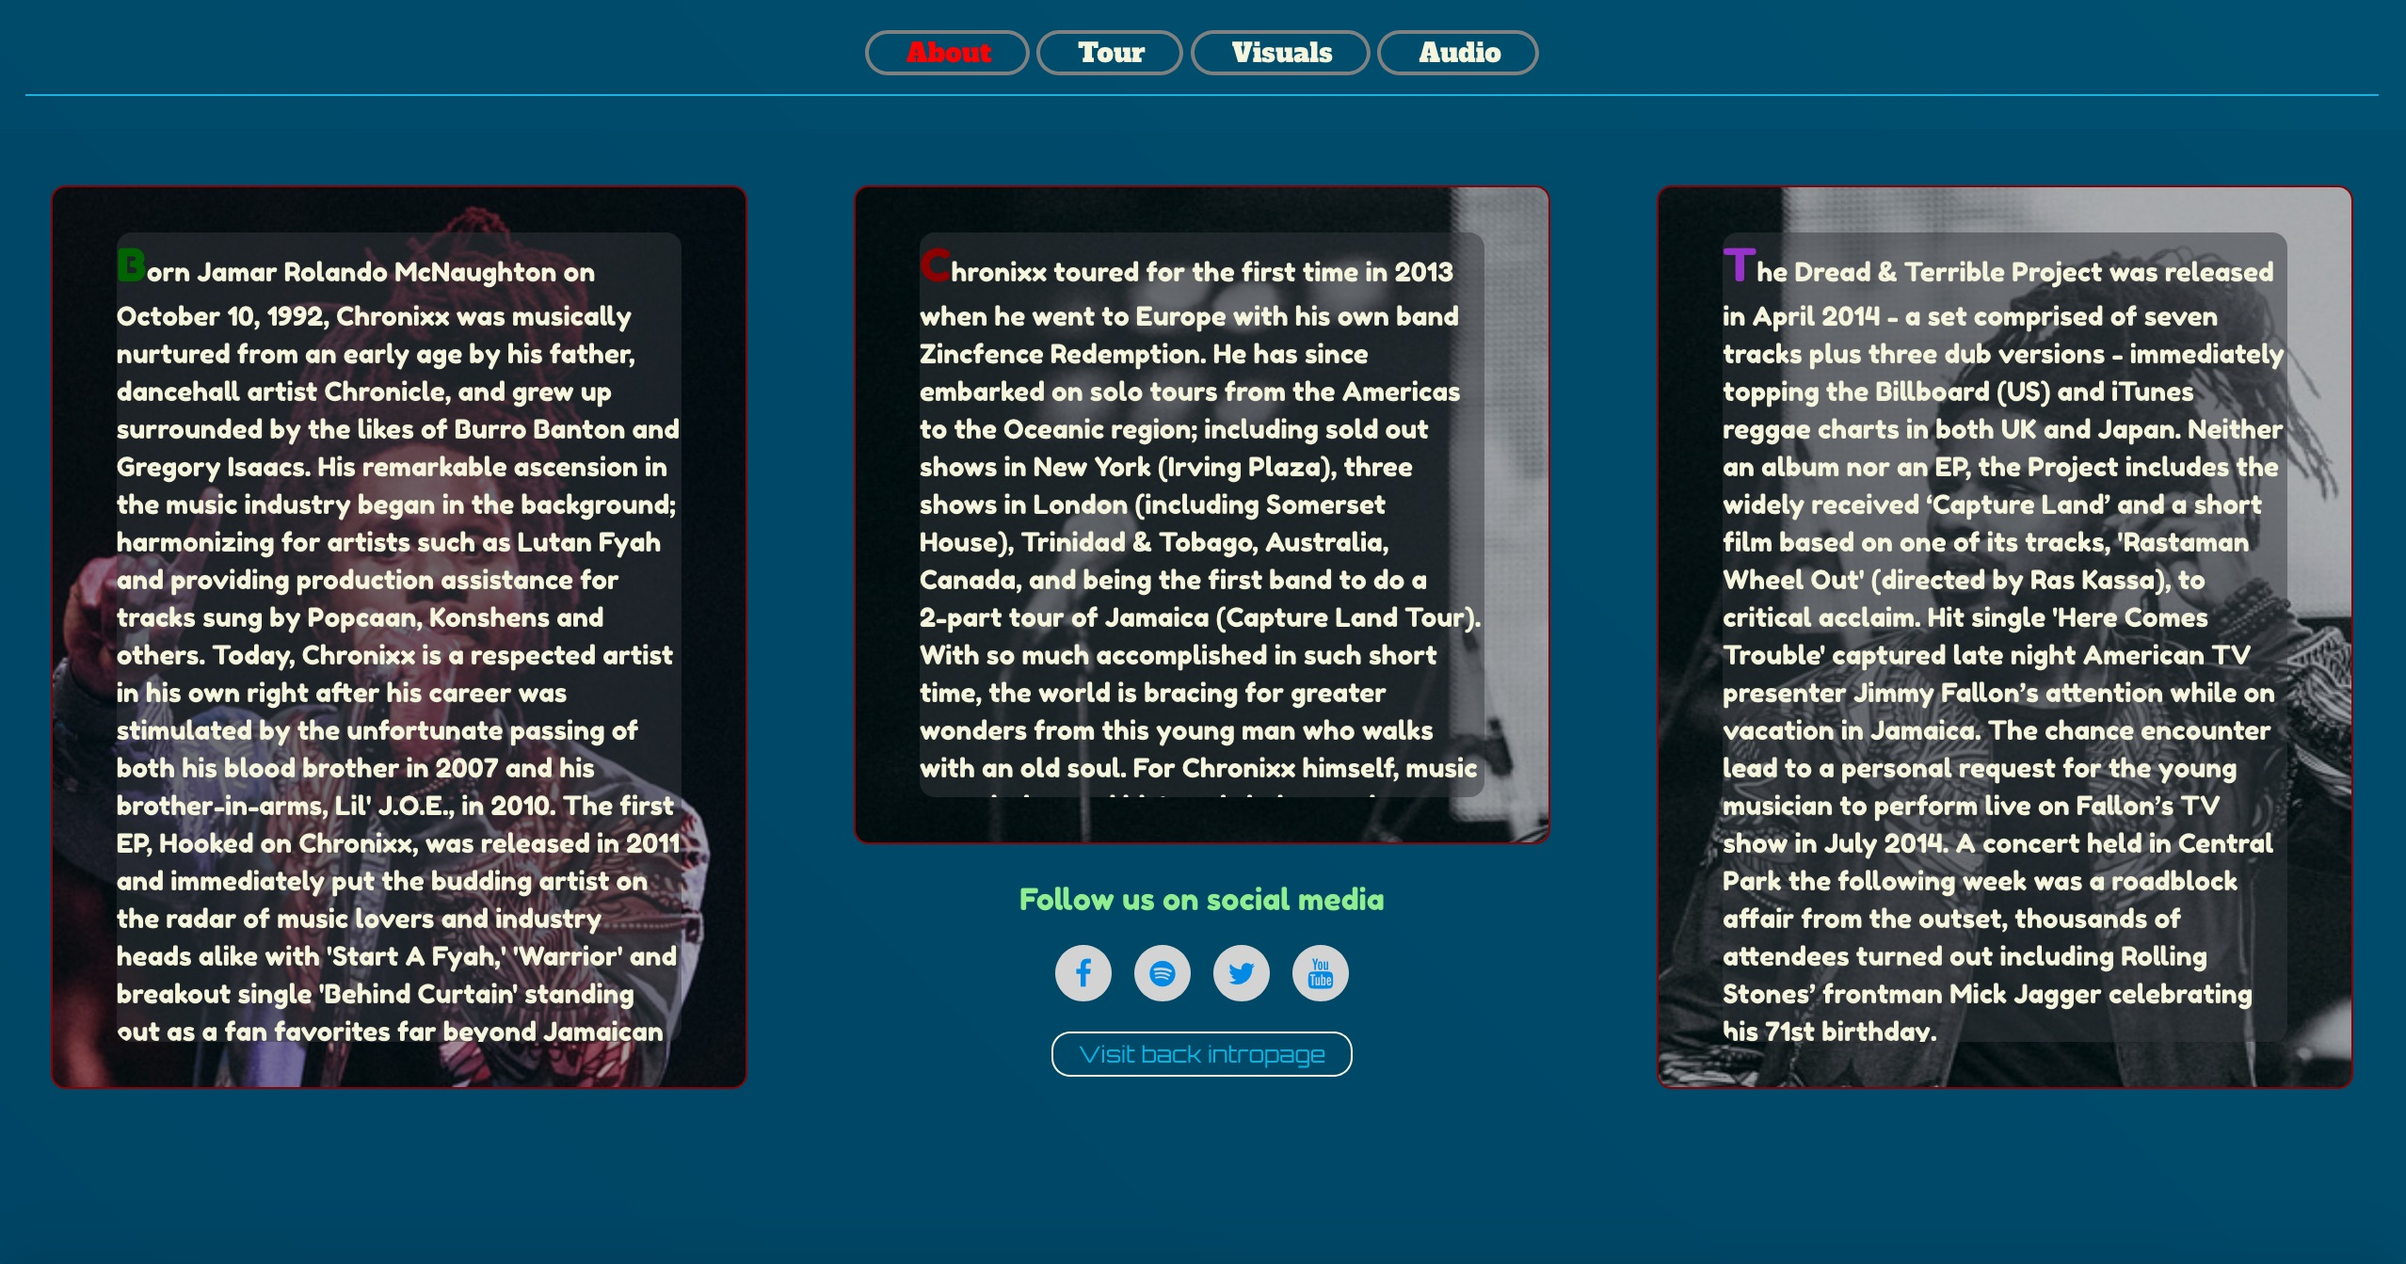
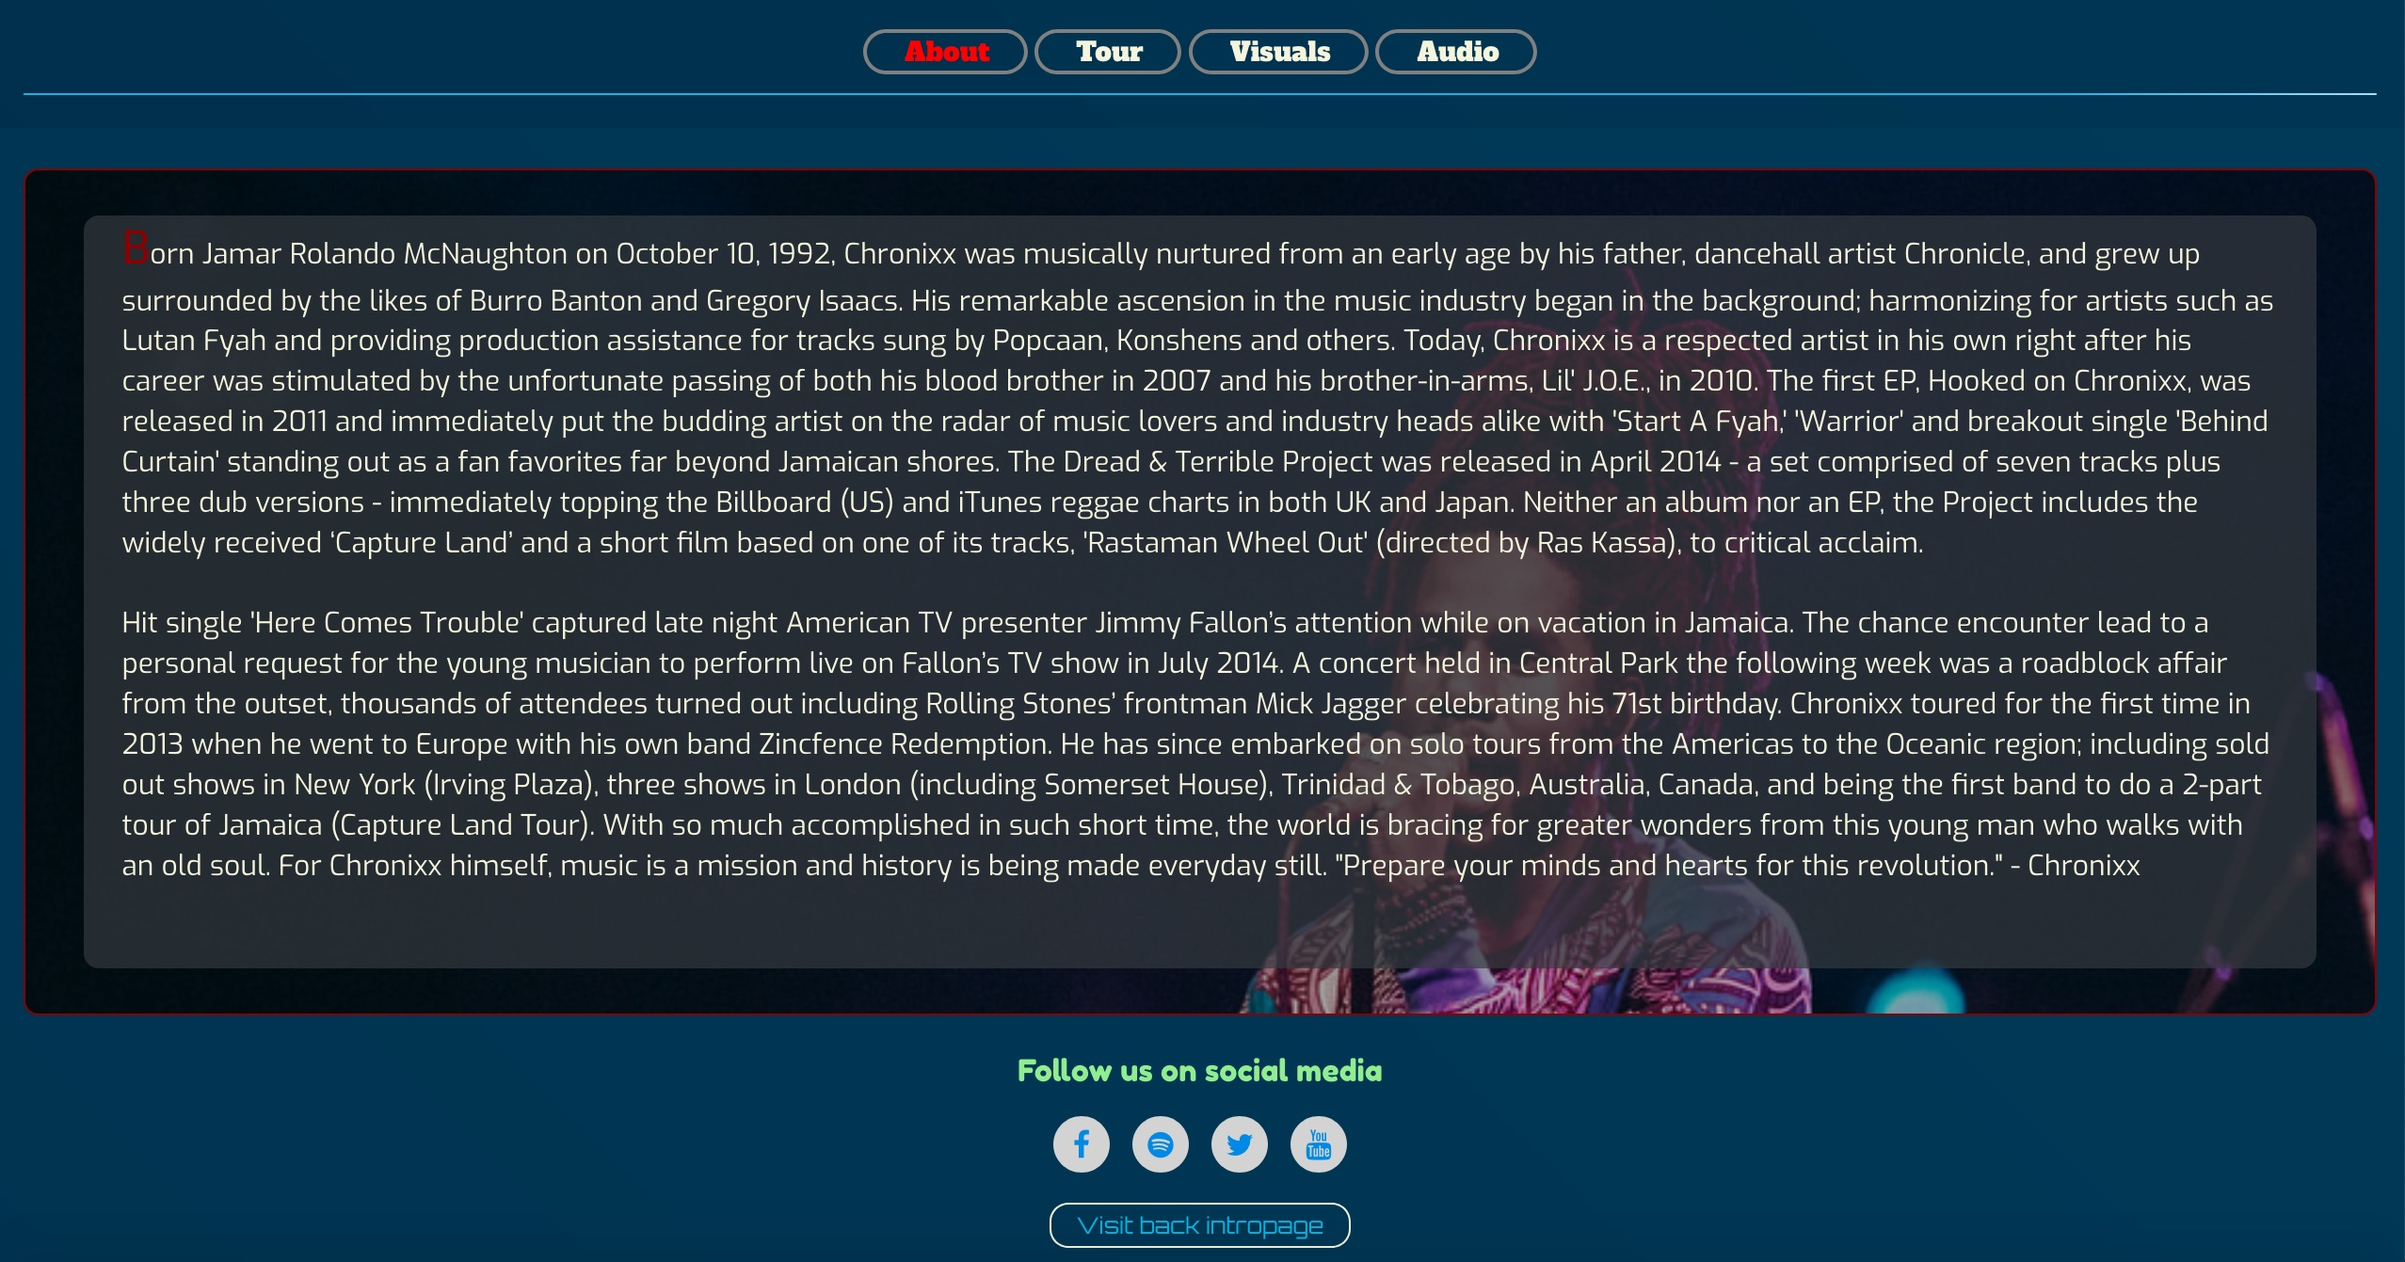
changed about page to one big column and made new screenshot

diff --git a/about.html b/about.html
@@ -32,26 +32,23 @@
     </header>
 
     <section class="container-fluid">
-        <div class="row row-content">
-            <div class="hidden-xs col-sm-6 col-md-4 vhalign">
-                <div class="bg-about-pictureleft outersection-content vhalign">
-                    <div class="abouttext-left">
-                        <p id="abouttextfont-left">Born Jamar Rolando McNaughton on October 10, 1992, Chronixx was musically nurtured from an early age by his father, dancehall artist Chronicle, and grew up surrounded by the likes of Burro Banton and Gregory Isaacs. His remarkable
-                            ascension in the music industry began in the background; harmonizing for artists such as Lutan Fyah and providing production assistance for tracks sung by Popcaan, Konshens and others. Today, Chronixx is a respected artist
-                            in his own right after his career was stimulated by the unfortunate passing of both his blood brother in 2007 and his brother-in-arms, Lil' J.O.E., in 2010. The first EP, Hooked on Chronixx, was released in 2011 and immediately
-                            put the budding artist on the radar of music lovers and industry heads alike with 'Start A Fyah,' 'Warrior' and breakout single 'Behind Curtain' standing out as a fan favorites far beyond Jamaican shores.
-                        </p>
-                    </div>
-                </div>
-            </div>
+        <div class="row">
 
-            <div class="col-xs-12 col-sm-6 col-md-4 vhalign">
+
+            <div class="col-xs-12 hidden-sm hidden-md hidden-lg vhalign min-height">
                 <div class="bg-aboutsection-content section-content vhalign">
                     <div class="abouttext">
-                        <p id="abouttextfont">Chronixx toured for the first time in 2013 when he went to Europe with his own band Zincfence Redemption. He has since embarked on solo tours from the Americas to the Oceanic region; including sold out shows in New York (Irving
-                            Plaza), three shows in London (including Somerset House), Trinidad & Tobago, Australia, Canada, and being the first band to do a 2-part tour of Jamaica (Capture Land Tour). With so much accomplished in such short time, the
-                            world is bracing for greater wonders from this young man who walks with an old soul. For Chronixx himself, music is a mission and history is being made everyday still. "Prepare your minds and hearts for this revolution." -
-                            Chronixx
+                        <p id="abouttextfont">Born Jamar Rolando McNaughton on October 10, 1992, Chronixx was musically nurtured from an early age by his father, dancehall artist Chronicle, and grew up surrounded by the likes of Burro Banton and Gregory Isaacs. His remarkable
+                            ascension in the music industry began in the background; harmonizing for artists such as Lutan Fyah and providing production assistance for tracks sung by Popcaan, Konshens and others. Today, Chronixx is a respected artist
+                            in his own right after his career was stimulated by the unfortunate passing of both his blood brother in 2007 and his brother-in-arms, Lil' J.O.E., in 2010. The first EP, Hooked on Chronixx, was released in 2011 and immediately
+                            put the budding artist on the radar of music lovers and industry heads alike with 'Start A Fyah,' 'Warrior' and breakout single 'Behind Curtain' standing out as a fan favorites far beyond Jamaican shores. The Dread & Terrible
+                            Project was released in April 2014 - a set comprised of seven tracks plus three dub versions - immediately topping the Billboard (US) and iTunes reggae charts in both UK and Japan. Neither an album nor an EP, the Project includes
+                            the widely received ‘Capture Land’ and a short film based on one of its tracks, 'Rastaman Wheel Out' (directed by Ras Kassa), to critical acclaim.<br> <br> Hit single 'Here Comes Trouble' captured late night American TV presenter Jimmy
+                            Fallon’s attention while on vacation in Jamaica. The chance encounter lead to a personal request for the young musician to perform live on Fallon’s TV show in July 2014. A concert held in Central Park the following week was
+                            a roadblock affair from the outset, thousands of attendees turned out including Rolling Stones’ frontman Mick Jagger celebrating his 71st birthday. Chronixx toured for the first time in 2013 when he went to Europe with his
+                            own band Zincfence Redemption. He has since embarked on solo tours from the Americas to the Oceanic region; including sold out shows in New York (Irving Plaza), three shows in London (including Somerset House), Trinidad & Tobago,
+                            Australia, Canada, and being the first band to do a 2-part tour of Jamaica (Capture Land Tour). With so much accomplished in such short time, the world is bracing for greater wonders from this young man who walks with an old
+                            soul. For Chronixx himself, music is a mission and history is being made everyday still. "Prepare your minds and hearts for this revolution." - Chronixx
                         </p>
                     </div>
                 </div>
@@ -74,16 +71,40 @@
                 </div>
             </div>
 
-            <div class="hidden-xs hidden-sm col-md-4 vhalign">
-                <div class="bg-about-pictureright outersection-content vhalign">
-                    <div class="abouttext-right">
-                        <p id="abouttextfont-right">The Dread & Terrible Project was released in April 2014 - a set comprised of seven tracks plus three dub versions - immediately topping the Billboard (US) and iTunes reggae charts in both UK and Japan. Neither an album nor
-                                an EP, the Project includes the widely received ‘Capture Land’ and a short film based on one of its tracks, 'Rastaman Wheel Out' (directed by Ras Kassa), to critical acclaim. Hit single 'Here Comes Trouble' captured late
-                                night American TV presenter Jimmy Fallon’s attention while on vacation in Jamaica. The chance encounter lead to a personal request for the young musician to perform live on Fallon’s TV show in July 2014. A concert held
-                                in Central Park the following week was a roadblock affair from the outset, thousands of attendees turned out including Rolling Stones’ frontman Mick Jagger celebrating his 71st birthday.
+            <div class="hidden-xs col-sm-12 col-md-12 col-lg-12 ">
+                <div class="bg-about-picture-big about-section-content-big vhalign">
+                    <div class="abouttext-big">
+                        <p id="abouttextfont-big">
+                            Born Jamar Rolando McNaughton on October 10, 1992, Chronixx was musically nurtured from an early age by his father, dancehall artist Chronicle, and grew up surrounded by the likes of Burro Banton and Gregory Isaacs. His remarkable
+                            ascension in the music industry began in the background; harmonizing for artists such as Lutan Fyah and providing production assistance for tracks sung by Popcaan, Konshens and others. Today, Chronixx is a respected artist
+                            in his own right after his career was stimulated by the unfortunate passing of both his blood brother in 2007 and his brother-in-arms, Lil' J.O.E., in 2010. The first EP, Hooked on Chronixx, was released in 2011 and immediately
+                            put the budding artist on the radar of music lovers and industry heads alike with 'Start A Fyah,' 'Warrior' and breakout single 'Behind Curtain' standing out as a fan favorites far beyond Jamaican shores. The Dread & Terrible
+                            Project was released in April 2014 - a set comprised of seven tracks plus three dub versions - immediately topping the Billboard (US) and iTunes reggae charts in both UK and Japan. Neither an album nor an EP, the Project includes
+                            the widely received ‘Capture Land’ and a short film based on one of its tracks, 'Rastaman Wheel Out' (directed by Ras Kassa), to critical acclaim.<br> <br> Hit single 'Here Comes Trouble' captured late night American TV presenter Jimmy
+                            Fallon’s attention while on vacation in Jamaica. The chance encounter lead to a personal request for the young musician to perform live on Fallon’s TV show in July 2014. A concert held in Central Park the following week was
+                            a roadblock affair from the outset, thousands of attendees turned out including Rolling Stones’ frontman Mick Jagger celebrating his 71st birthday. Chronixx toured for the first time in 2013 when he went to Europe with his
+                            own band Zincfence Redemption. He has since embarked on solo tours from the Americas to the Oceanic region; including sold out shows in New York (Irving Plaza), three shows in London (including Somerset House), Trinidad & Tobago,
+                            Australia, Canada, and being the first band to do a 2-part tour of Jamaica (Capture Land Tour). With so much accomplished in such short time, the world is bracing for greater wonders from this young man who walks with an old
+                            soul. For Chronixx himself, music is a mission and history is being made everyday still. "Prepare your minds and hearts for this revolution." - Chronixx
                         </p>
                     </div>
                 </div>
+             <div class="footer-container footerfont vhalign">
+                     <h2>
+                        Follow us on social media
+                    </h2>
+                    <ul class="socialpanel halign">
+                        <li class="socialicons"><a href="https://www.facebook.com/chronixxmusic" target="_blank" class="sociallinks"><i class="fa fa-facebook vhalign"></i></a></li>
+                        <li class="socialicons"><a href="https://open.spotify.com/artist/2oZcMYiKpjaA2Et5mU3RPP" target="_blank" class="sociallinks"><i class="fa fa-spotify vhalign"></i></a></li>
+                        <li class="socialicons"><a href="https://twitter.com/ChronixxMusic" target="_blank" class="sociallinks"><i class="fa fa-twitter vhalign"></i></a></li>
+                        <li class="socialicons"><a href="https://www.youtube.com/ChronixxMusic" target="_blank" class="sociallinks"><i class="fa fa-youtube vhalign"></i></a></li>
+                    </ul>
+                    <div class="intropage-backlinkbutton-container halign">
+                        <a href="index.html" class="hyperlinks">
+                            <div class="backlinkbutton halign">Visit back intropage</div>
+                        </a>
+                    </div>
+                </div>  
             </div>
         </div>
     </section>

diff --git a/assets/css/style.css b/assets/css/style.css
@@ -1,4 +1,3 @@
-
 /*------------------------------ helper classes*/
 
 .testframe {
@@ -50,6 +49,13 @@ section {
     height: 480px;
 }
 
+.about-section-content-big {
+    width: 100%;
+    border: 1px solid darkred;
+    border-radius: 8px;
+    height: 450px;
+}
+
 .visusalsection-content {
     width: 90%;
     border: 1px solid darkred;
@@ -65,12 +71,8 @@ section {
     height: 350px;
 }
 
-.row-footer {
-    height: 100px;
-}
-
 .min-height {
-    height: 300px;
+    height: 500px;
 }
 
 /*------------------------------ color definitions*/
@@ -159,22 +161,8 @@ body {
     color: lightblue;
 }
 
-#abouttextfont-left {
-    font-family: "Fredoka One", sans-serif;
-    color: beige;
-    font-size: 14px;
-    font-weight: 100;
-}
-
-#abouttextfont-left::first-letter {
-    font-weight: bold;
-    font-size: 24px;
-    color: darkgreen;
-}
-
-
 #abouttextfont {
-    font-family: "Fredoka One", sans-serif;
+    font-family: "Exo", sans-serif;
     color: beige;
     font-size: 14px;
     font-weight: 100;
@@ -186,20 +174,18 @@ body {
     color: darkred;
 }
 
-
-#abouttextfont-right {
-    font-family: "Fredoka One", sans-serif;
+#abouttextfont-big {
+    font-family: "Exo", sans-serif;
     color: beige;
-    font-size: 14px;
+    font-size: 15px;
     font-weight: 100;
 }
 
-#abouttextfont-right::first-letter {
+#abouttextfont-big::first-letter {
     font-weight: bold;
     font-size: 24px;
-    color: darkorchid;
+    color: darkred;
 }
-
 
 .footerfont {
 
@@ -1088,20 +1074,11 @@ a:active {
 
 /*------------------------------------------ aboutpage*/
 
-.bg-about-pictureleft {
-    background: url(../images/about-pictureleft.jpg);
+.bg-about-picture-big {
+    background: url(../images/stage5.jpg);
     background-repeat: no-repeat;
-    background-position: -170px -40px;
-    background-size: 683px 1024px;
-    background-color: rgba(52, 57, 63, 0.4);
-    background-blend-mode: multiply;
-}
-
-.bg-about-pictureright {
-    background: url(../images/about-pictureright.jpg);
-    background-repeat: no-repeat;
-    background-position: -250px -100px;
-    background-size: 800px 1000px;
+    background-position: -250px -100px cover;
+    background-size: 1400px 933px;
     background-color: rgba(52, 57, 63, 0.4);
     background-blend-mode: multiply;
 }
@@ -1116,31 +1093,24 @@ a:active {
     background-blend-mode: multiply;
 }
 
-.abouttext-left {
-    width: 300px;
-    height: 430px;
-    overflow: auto;
-    padding: 0;
-    border-radius: 8px;
-    background-color: rgba(52, 57, 63, 0.5);
-}
-
 .abouttext {
-    width: 300px;
+    width: 320px;
     height: 300px;
     overflow: auto;
-    padding: 0;
+    padding-left: 10px;
+    padding-right: 10px;
     border-radius: 8px;
-    background-color: rgba(52, 57, 63, 0.5);
+    background-color: rgba(52, 57, 63, 0.7);
 }
 
-.abouttext-right {
-    width: 300px;
-    height: 430px;
+.abouttext-big {
+    width: 95%;
+    height: 400px;
     overflow: auto;
-    padding: 0;
+    padding-left: 20px;
+    padding-right: 20px;
     border-radius: 8px;
-    background-color: rgba(52, 57, 63, 0.5);
+    background-color: rgba(52, 57, 63, 0.7);
 }
 
 /*------------------------------------------ tourpage*/
@@ -1230,13 +1200,13 @@ a:active {
 /*------------------------------------------ visualspage*/
 
 .bg-visualssection-content {
-    background-color: #34393F;
+    background-color: rgba(52, 57, 63, 0.5);
     border-radius: 8px;
 }
 
 .BIGvisuals-container {
     width: 900px;
-    height: 700px;
+    height: 620px;
     padding-left: 15px;
     padding-right: 15px;
 }

diff --git a/README.md b/README.md
@@ -74,7 +74,7 @@ The point of action to the user is marked by red pulsing frame of the enter butt
 The navigation bar on top of the screen remains fixed at all times. The currently visited site is marked with red letters and transitions to red when hovering the mouse on link.
 The header is optically separated from content section by a laser like beam which works exactly as the animated body background on index.html.
 
-The about text on mobile version is displayed in one column. The desktop version has two additional text columns. A background image is placed inside the div. A second layer is placed between text and background to make it easier to read the text.
+The about text on mobile version is displayed in one column. The desktop version has one big column spreading the whole screen. A background image is placed inside the div. A second layer is placed between text and background to make it easier to read the text.
 
 The footer is accessible on all four pages and carries the links to official pages social media, as well as a link to visit back the intro page.
 
@@ -136,7 +136,7 @@ After testing new code, the deployment was done first locally and then to github
 
 This project can be cloned locally by using the command
 
-<em><b> git clone https://github.com/poldi2018/Milestone1-User-centric-frontend </b></em>
+<em><b> git clone https://github.com/poldi2018/Milestone1-User-centric-frontend.git </b></em>
 
 
 <h1> Credits </h1> 
